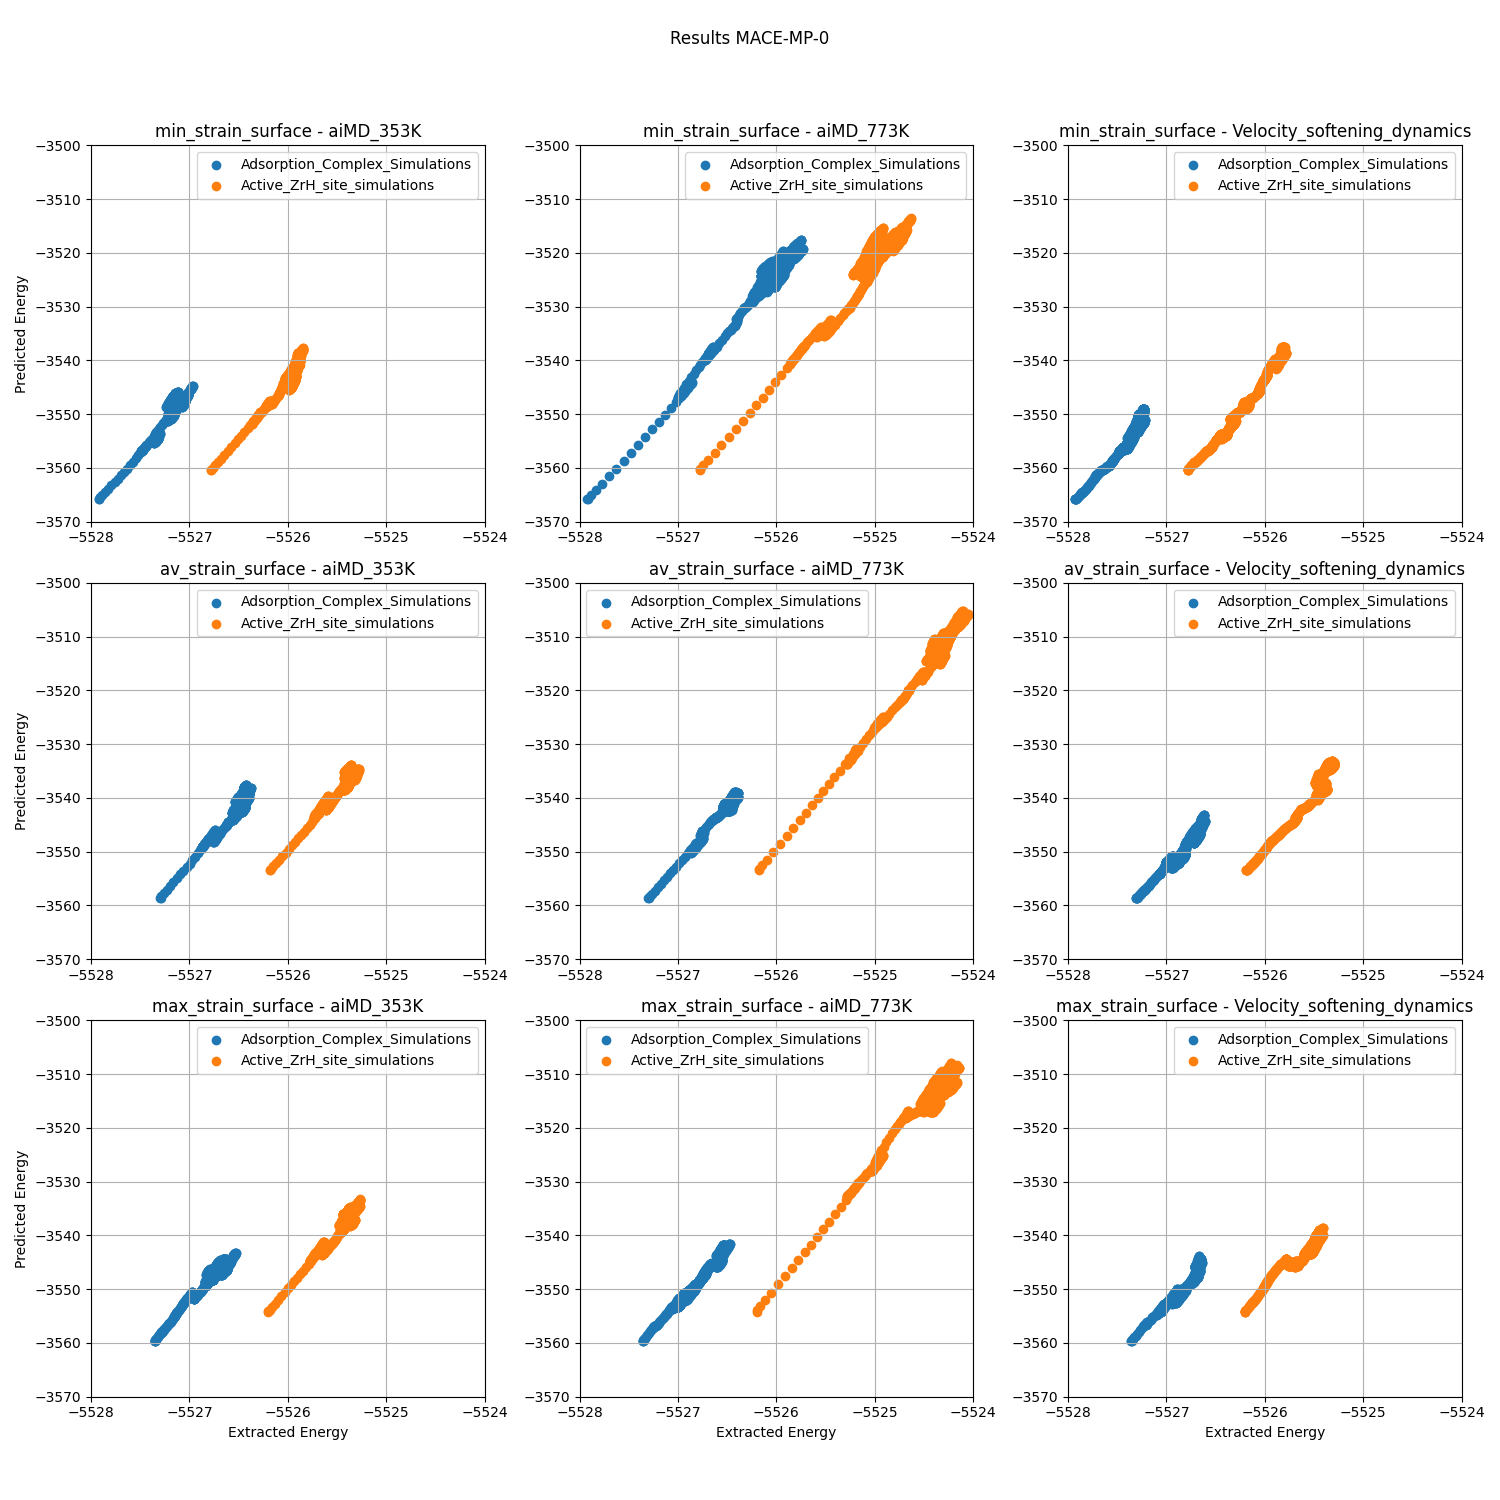
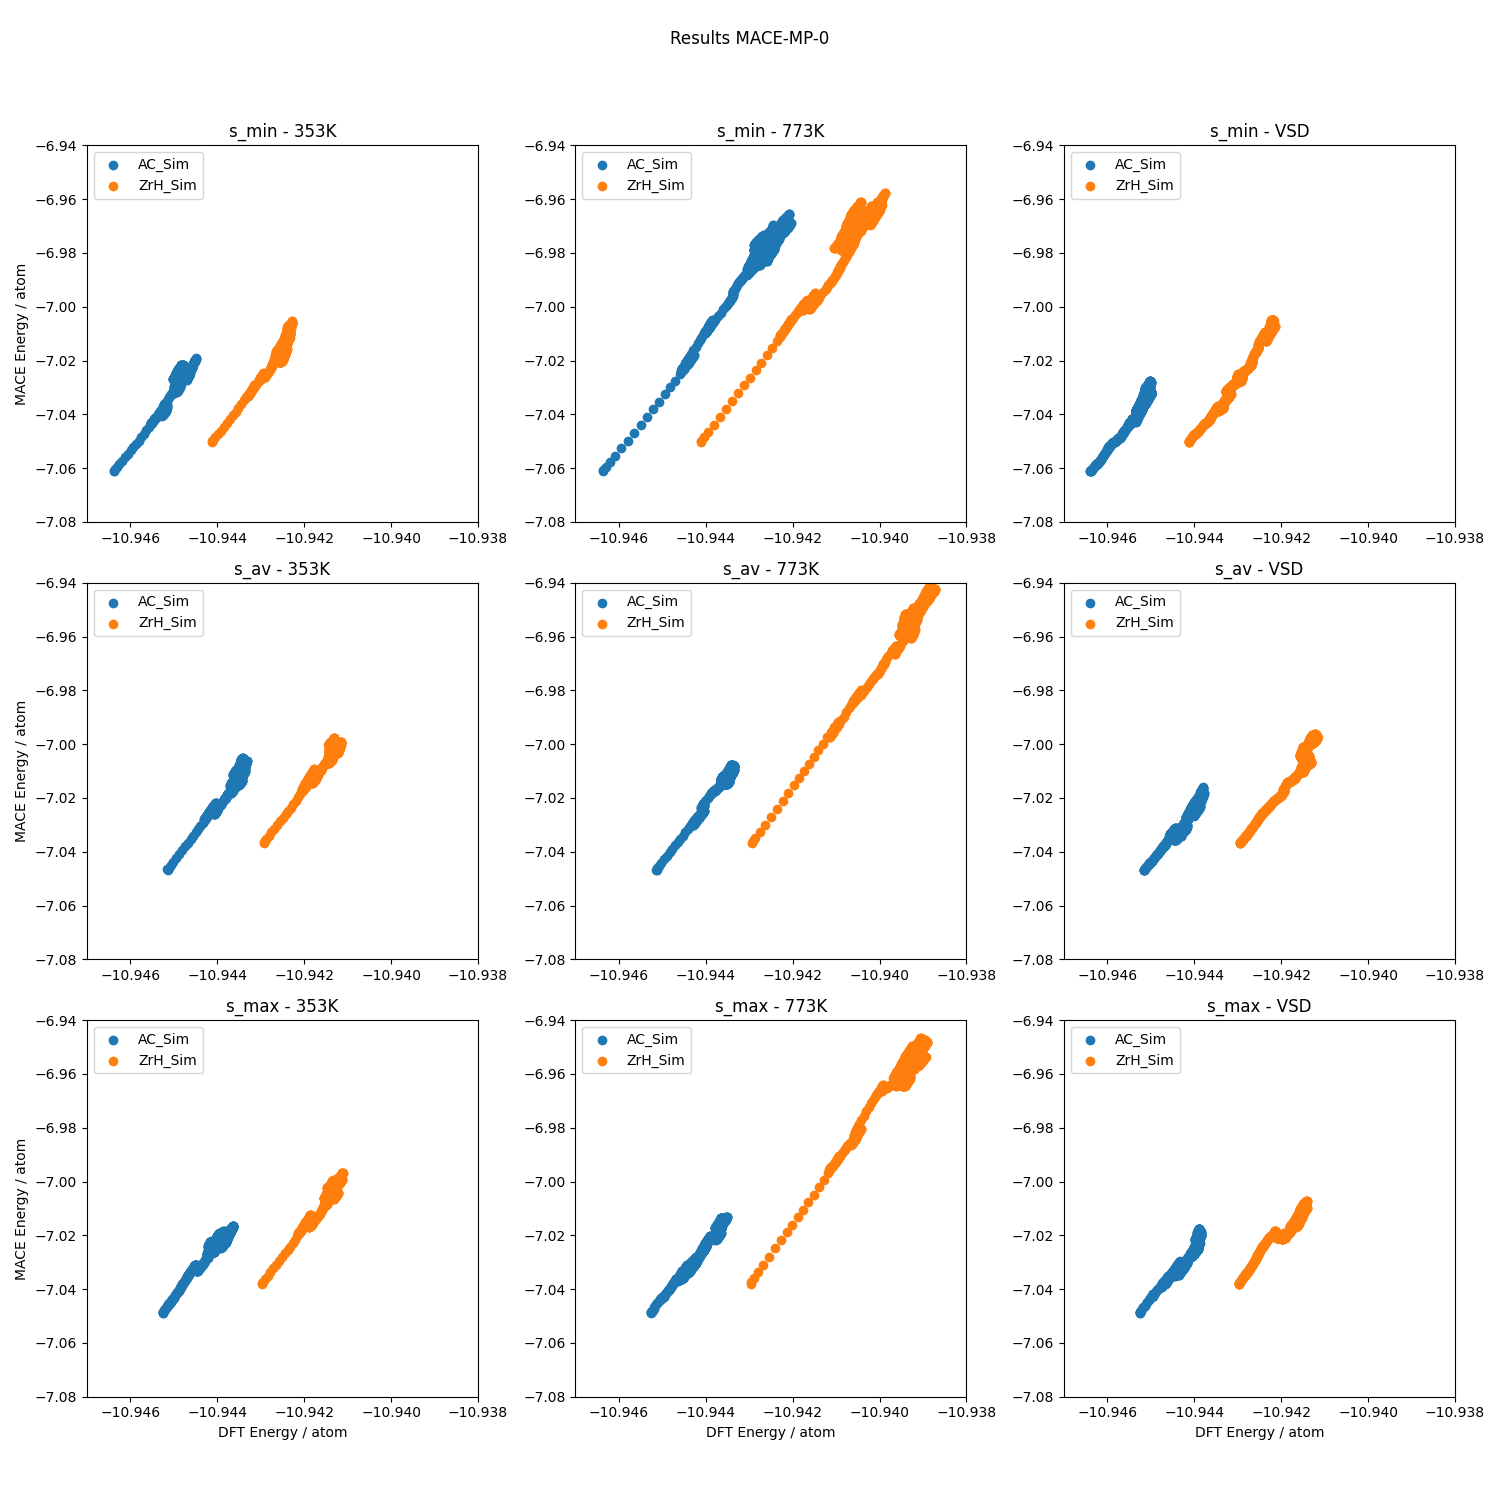
Improve plot and add bash scripts from DelftBlue to the folder

diff --git a/ASE/plot_folder.py b/ASE/plot_folder.py
@@ -61,12 +61,13 @@ def plot_simulation_data(base_path, sim_type, title, strain_surfaces, temperatur
             data = load_data(base_path, strain_surface, sim_type, temp_folder)
             ax = axes[i, j]
             if not data.empty:
-                ax.scatter(data['Extracted Energy'], data['Predicted Energy'])
+                length = data.shape[0]
+                ax.scatter(data['Extracted Energy']/length, data['Predicted Energy']/length)
                 ax.set_title(f'{strain_surface} - {temp_folder}')
                 if i == 2:
-                    ax.set_xlabel('Extracted Energy')
+                    ax.set_xlabel('DFT Energy / atom')
                 if j == 0:
-                    ax.set_ylabel('Predicted Energy')
+                    ax.set_ylabel('MACE Energy / atom')
                 ax.set_xlim(-5528, -5524)
                 ax.set_ylim(-3570, -3500)
                 ax.set_xticks([-5528, -5527, -5526, -5525, -5524])
@@ -80,7 +81,8 @@ def plot_simulation_data(base_path, sim_type, title, strain_surfaces, temperatur
     return fig
 
 
-def plot_simulation_data_one(base_path, sim_types, title, strain_surfaces, temperature_folders):
+def plot_simulation_data_one(base_path, sim_types, sim_type_legends, title, strain_surfaces, strain_surface_names,
+                         temperature_folders, temp_folder_names):
     """
     Generates scatter plots comparing 'Extracted Energy' and 'Predicted Energy' for different simulations.
 
@@ -91,12 +93,18 @@ def plot_simulation_data_one(base_path, sim_types, title, strain_surfaces, tempe
     :type base_path: str
     :param sim_types: A list of simulation type folders to analyze.
     :type sim_types: list
+    :param sim_type_legends: A list of legends corresponding to each sim_type.
+    :type sim_type_legends: list
     :param title: The title for the figure.
     :type title: str
     :param strain_surfaces: The names of the strain surface folders to analyze.
     :type strain_surfaces: list
+    :param strain_surface_names: A list of custom names for the strain surfaces.
+    :type strain_surface_names: list
     :param temperature_folders: The names of the temperature folders to analyze.
     :type temperature_folders: list
+    :param temp_folder_names: A list of custom names for the temperature folders.
+    :type temp_folder_names: list
     :return: A matplotlib figure containing the scatter plots.
     :rtype: matplotlib.figure.Figure
     """
@@ -115,28 +123,35 @@ def plot_simulation_data_one(base_path, sim_types, title, strain_surfaces, tempe
                 ax = axes[i, j]
 
                 if not data.empty:
-                    ax.scatter(data['Extracted Energy'], data['Predicted Energy'], color=color, label=sim_type)
-                    ax.set_title(f'{strain_surface} - {temp_folder}')
+                    ax.scatter(data['Extracted Energy']/505, data['Predicted Energy']/505, color=color,
+                               label=sim_type_legends[sim_idx])
+
+                    # Set custom titles using strain_surface_names and temp_folder_names
+                    strain_surface_name = strain_surface_names[i] if i < len(strain_surface_names) else strain_surface
+                    temp_folder_name = temp_folder_names[j] if j < len(temp_folder_names) else temp_folder
+                    ax.set_title(f'{strain_surface_name} - {temp_folder_name}')
 
                     # Only add labels on the outer axes
                     if i == 2:
-                        ax.set_xlabel('Extracted Energy')
+                        ax.set_xlabel('DFT Energy / atom')
                     if j == 0:
-                        ax.set_ylabel('Predicted Energy')
+                        ax.set_ylabel('MACE Energy / atom')
 
-                    ax.set_xlim(-5528, -5524)
-                    ax.set_ylim(-3570, -3500)
-                    ax.set_xticks([-5528, -5527, -5526, -5525, -5524])
-                    ax.set_yticks([-3570, -3560, -3550, -3540, -3530, -3520, -3510, -3500])
+                    ax.set_xlim(-10.947, -10.938)
+                    ax.set_ylim(-7.08, -6.94)
+                    ax.set_xticks([-10.946, -10.944, -10.942, -10.94, -10.938])
+                    ax.set_yticks([-7.08, -7.06, -7.04, -7.02, -7.0, -6.98, -6.96, -6.94])
                 else:
                     ax.text(0.5, 0.5, 'No Data', horizontalalignment='center', verticalalignment='center')
-                    ax.set_title(f'{strain_surface} - {temp_folder}')
+                    strain_surface_name = strain_surface_names[i] if i < len(strain_surface_names) else strain_surface
+                    temp_folder_name = temp_folder_names[j] if j < len(temp_folder_names) else temp_folder
+                    ax.set_title(f'{strain_surface_name} - {temp_folder_name}')
 
-                ax.grid(True)
+                ax.grid(False)
 
     # Add legends to the axes
     for ax in axes.flatten():
-        ax.legend()
+        ax.legend(loc=2)
 
     plt.tight_layout(rect=(0.0, 0.03, 1.0, 0.95))  # Adjust layout to make space for the title
     return fig
@@ -153,34 +168,40 @@ def main():
     :return: None
     """
     base_dir = r"../Results"
-    strain_surfaces = ["min_strain_surface", "av_strain_surface", "max_strain_surface"]
     simulation_types = ["Adsorption_Complex_Simulations", "Active_ZrH_site_simulations"]
+    simulation_types_legend = ["AC_Sim", "ZrH_Sim"]
+    strain_surfaces = ["min_strain_surface", "av_strain_surface", "max_strain_surface"]
+    strain_surfaces_names = ["s_min", "s_av", 's_max']
     temperature_folders = ["aiMD_353K", "aiMD_773K", "Velocity_softening_dynamics"]
+    temperature_folders_names = ["353K", "773K", "VSD"]
 
     # Create and save figures
     fig0 = plot_simulation_data_one(base_path=base_dir,
                                     sim_types=simulation_types,
+                                    sim_type_legends=simulation_types_legend,
                                     title="Results MACE-MP-0",
                                     strain_surfaces=strain_surfaces,
-                                    temperature_folders=temperature_folders
+                                    strain_surface_names=strain_surfaces_names,
+                                    temperature_folders=temperature_folders,
+                                    temp_folder_names=temperature_folders_names
                                     )
 
-    fig1 = plot_simulation_data(base_path=base_dir,
-                                sim_type=simulation_types[0],
-                                title="Adsorption Complex Simulations",
-                                strain_surfaces=strain_surfaces,
-                                temperature_folders=temperature_folders
-                                )
-
-    fig2 = plot_simulation_data(base_path=base_dir,
-                                sim_type=simulation_types[1],
-                                title="Active ZrH Site Simulations",
-                                strain_surfaces=strain_surfaces,
-                                temperature_folders=temperature_folders
-                                )
+    # fig1 = plot_simulation_data(base_path=base_dir,
+    #                             sim_type=simulation_types[0],
+    #                             title="Adsorption Complex Simulations",
+    #                             strain_surfaces=strain_surfaces,
+    #                             temperature_folders=temperature_folders
+    #                             )
+    #
+    # fig2 = plot_simulation_data(base_path=base_dir,
+    #                             sim_type=simulation_types[1],
+    #                             title="Active ZrH Site Simulations",
+    #                             strain_surfaces=strain_surfaces,
+    #                             temperature_folders=temperature_folders
+    #                             )
     fig0.savefig(os.path.join(base_dir, 'MACE-MP-0.png'))
-    fig1.savefig(os.path.join(base_dir, 'Adsorption_Complex_Simulations_MACE0_Autoscale.png'))
-    fig2.savefig(os.path.join(base_dir, 'Active_ZrH_Site_Simulations_MACE0_Autoscale.png'))
+    # fig1.savefig(os.path.join(base_dir, 'Adsorption_Complex_Simulations_MACE0_Autoscale.png'))
+    # fig2.savefig(os.path.join(base_dir, 'Active_ZrH_Site_Simulations_MACE0_Autoscale.png'))
 
     # Show the figures
     plt.show()

diff --git a/README.md b/README.md
@@ -3,10 +3,12 @@ This repo contains code for my MEP.
 
 ## Contents
 - **ASE**: Folder containing scripts to process energy and forces using ASE:
-  - process_energy_mpi.py: parallelized script to load structures and calculate structure energy.
-  - submit_slurm_jobs.py: script to scan a data folder and create slurm jobs for each XYZ file.
-  - merge_csvs.py: script to merge and rename CSV files within the same directory into one single CSV.
-  - plot_folder.py: script to gather all CSVs from a data folder and create matplotlib PNG plots.
+  - `submit_jobs.sh`: bash script that calls `submit_slurm_jobs.py` to create jobs.
+  - `postprocess.sh`: bash script that calls `merge_csvs.py` to rename and merge csv-files, making them ready to be plotted. Next, it calls plot_folder.py to generate plots.
+  - `process_energy_mpi.py`: parallelized script to load structures and calculate structure energy.
+  - `submit_slurm_jobs.py`: script to scan a data folder and create slurm jobs for each XYZ file.
+  - `merge_csvs.py`: script to merge and rename CSV files within the same directory into one single CSV.
+  - `plot_folder.py`: script to gather all CSVs from a data folder and create matplotlib PNG plots.
 
 - **MACE**:
 - **Results**: Folder containing results, similarly structured to data folder.
